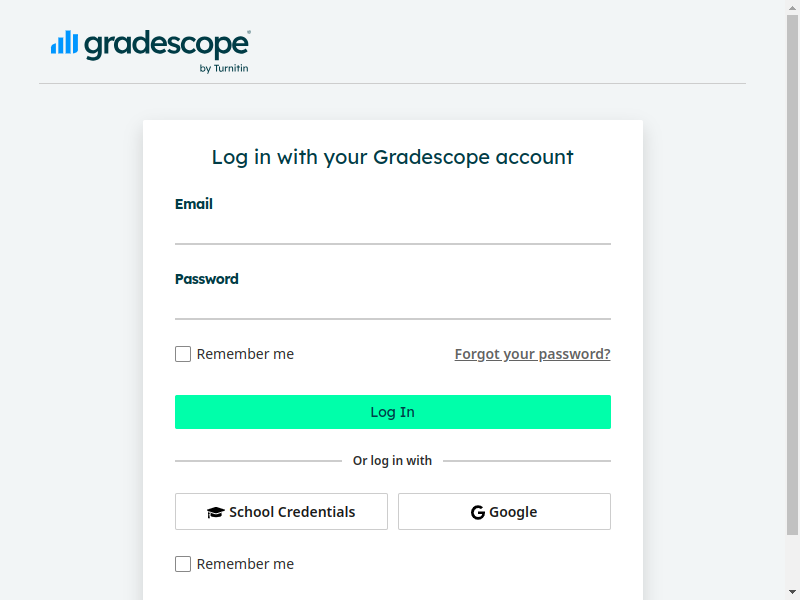
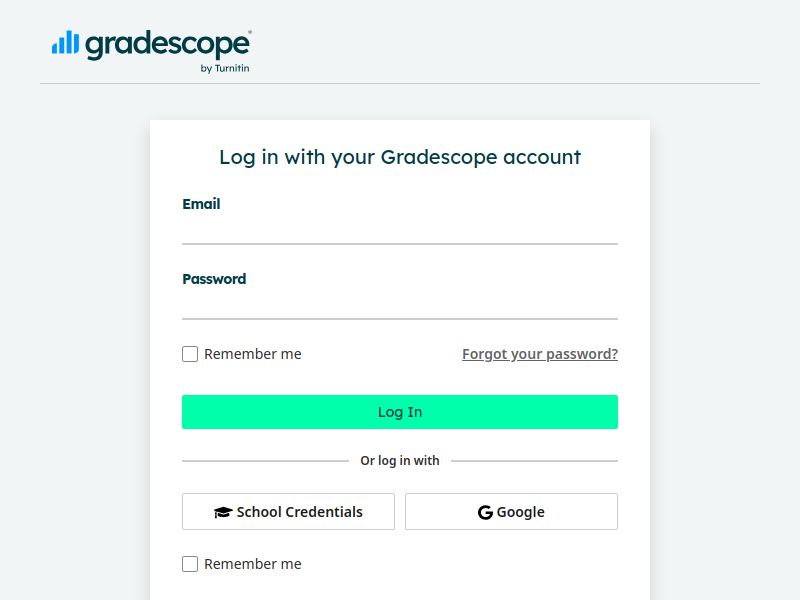
feat: stuff

diff --git a/index.js b/index.js
@@ -3,7 +3,7 @@ const puppeteer = require("puppeteer");
 dotenv.config();
 
 async function scrapeGradescope() {
-    const browser = await puppeteer.launch({ headless: false });
+    const browser = await puppeteer.launch({ headless: true });
     const page = await browser.newPage();
     await page.goto("https://www.gradescope.com/login");
     await page.screenshot({ path: "example.png" });
